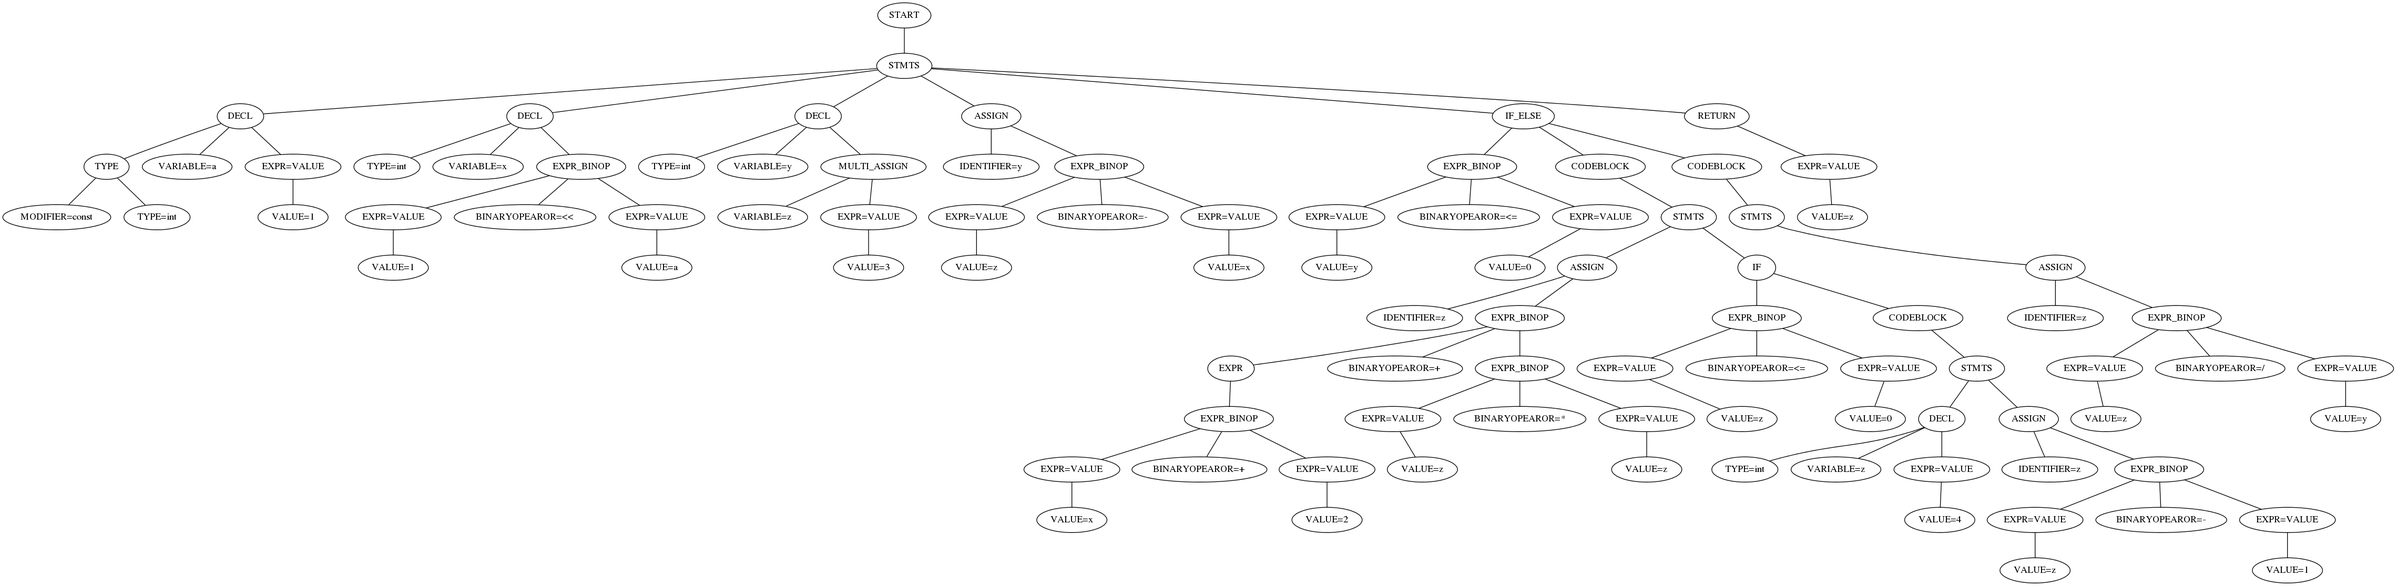
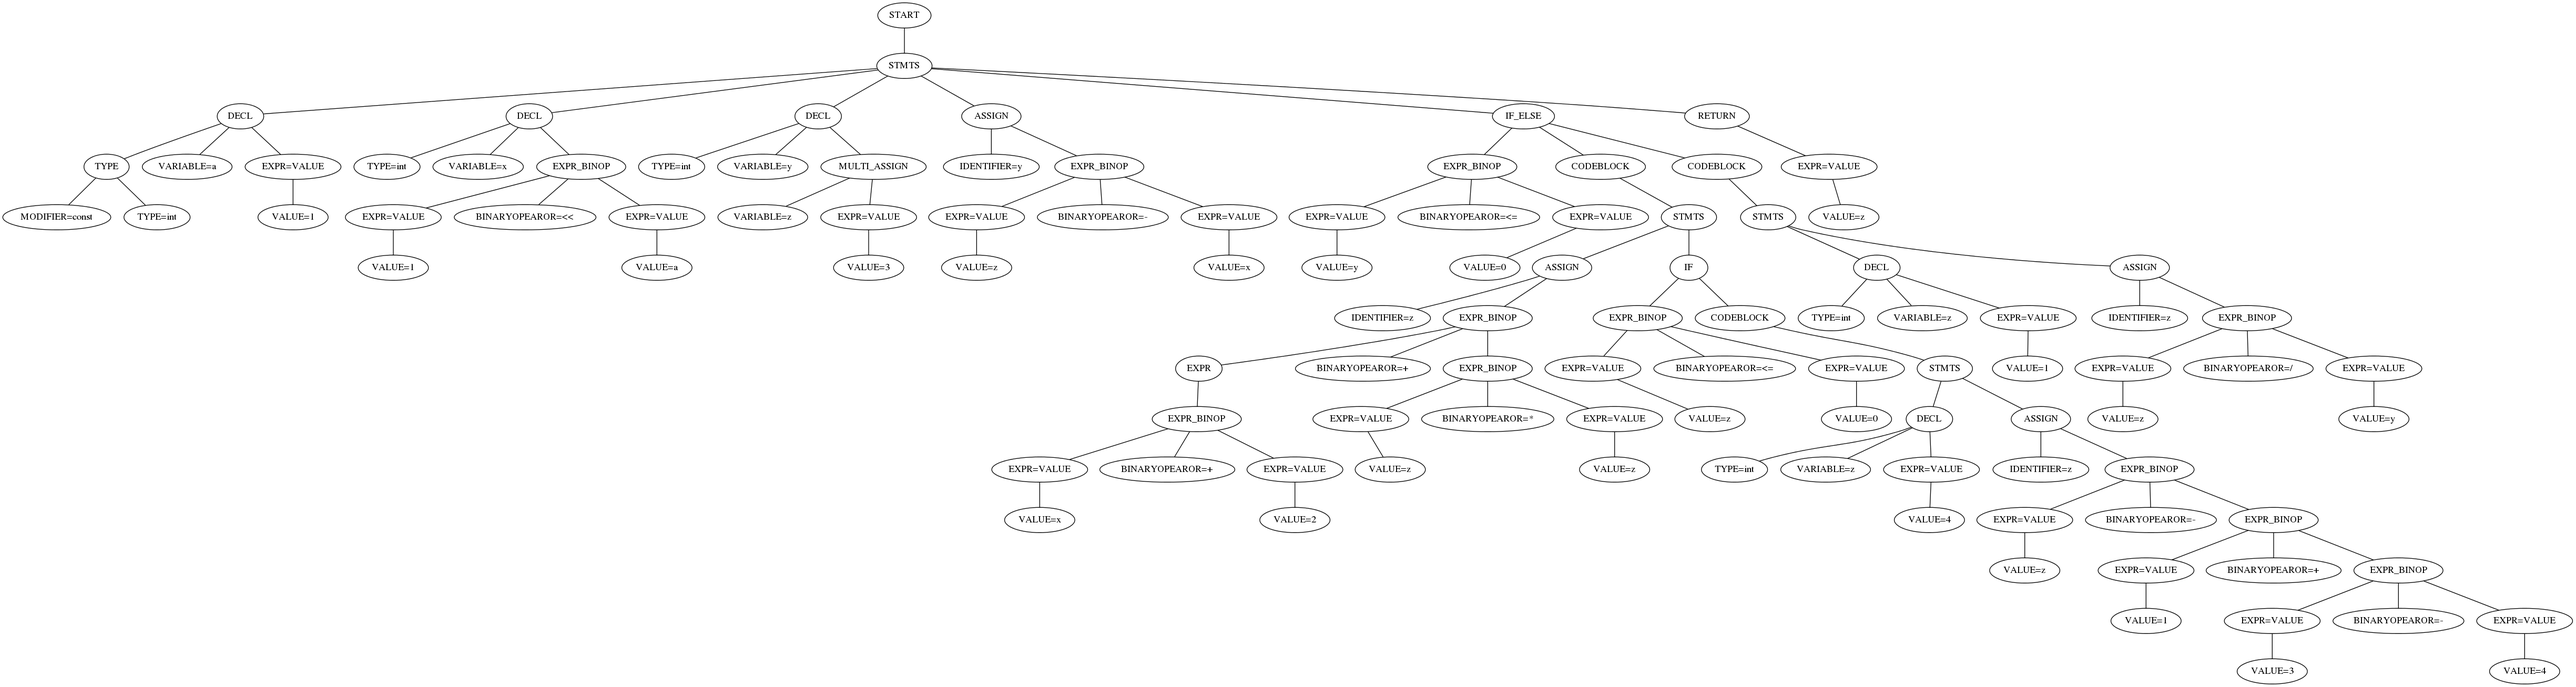
Add a visit-transformer that will modify an AST into an arithmetic syntax tree

diff --git a/ToTheAST/visitor.py b/ToTheAST/visitor.py
@@ -34,17 +34,17 @@ class SymbolVisitor(Visitor):
 
     def visit(self, node):
 
-        if node.data == 'DECL':
+        if node.name == 'DECL':
             # DECL is the important one for processing variable instantion
             self.table.enterSymbol(node.children[1].data, None)
             super().visit(node)
 
-        elif node.data == 'MULTI_ASSIGN':
+        elif node.name == 'MULTI_ASSIGN':
             self.table.enterSymbol(node.children[0].data, None)
 
             super().visit(node)
 
-        elif node.data == 'IF_ELSE':
+        elif node.name == 'IF_ELSE':
             self.table.openScope()
             node.children[1].accept(self)
             self.table.closeScope()
@@ -54,7 +54,7 @@ class SymbolVisitor(Visitor):
             node.children[2].accept(self)
             self.table.closeScope()
 
-        elif node.data == 'IF':
+        elif node.name == 'IF':
             self.table.openScope()
             node.children[1].accept(self)
             self.table.closeScope()
@@ -63,3 +63,24 @@ class SymbolVisitor(Visitor):
             node.accept(self)
 
         return self.table
+
+class ArithmeticTransformer(Visitor):
+
+    def visit(self, node):
+        # print("Visiting node: %s" % node.showSelf())
+        if node.name == 'EXPR_BINOP':
+            node.name = node.children[1].name
+            node.data = node.children[1].data
+
+            node.children.pop(1)
+            super().visit(node)
+
+        elif node.name == 'EXPR':
+            node.name = node.children[0].name
+            node.data = node.children[0].data
+
+            node.children = []
+            super().visit(node)
+
+        else:
+            super().visit(node)

diff --git a/ToTheAST/scanner.py b/ToTheAST/scanner.py
@@ -265,6 +265,10 @@ elif '-symvisit' in sys.argv:
     symtable = visitor.SymbolVisitor().visit(root)
     print(symtable)
 
+elif '-arithmetic' in sys.argv:
+    visitor.ArithmeticTransformer().visit(root)
+    visitor.PrintVisitor().visit(root)
+
 else:
     print(root.getNames())
     print(root.getChildren())
